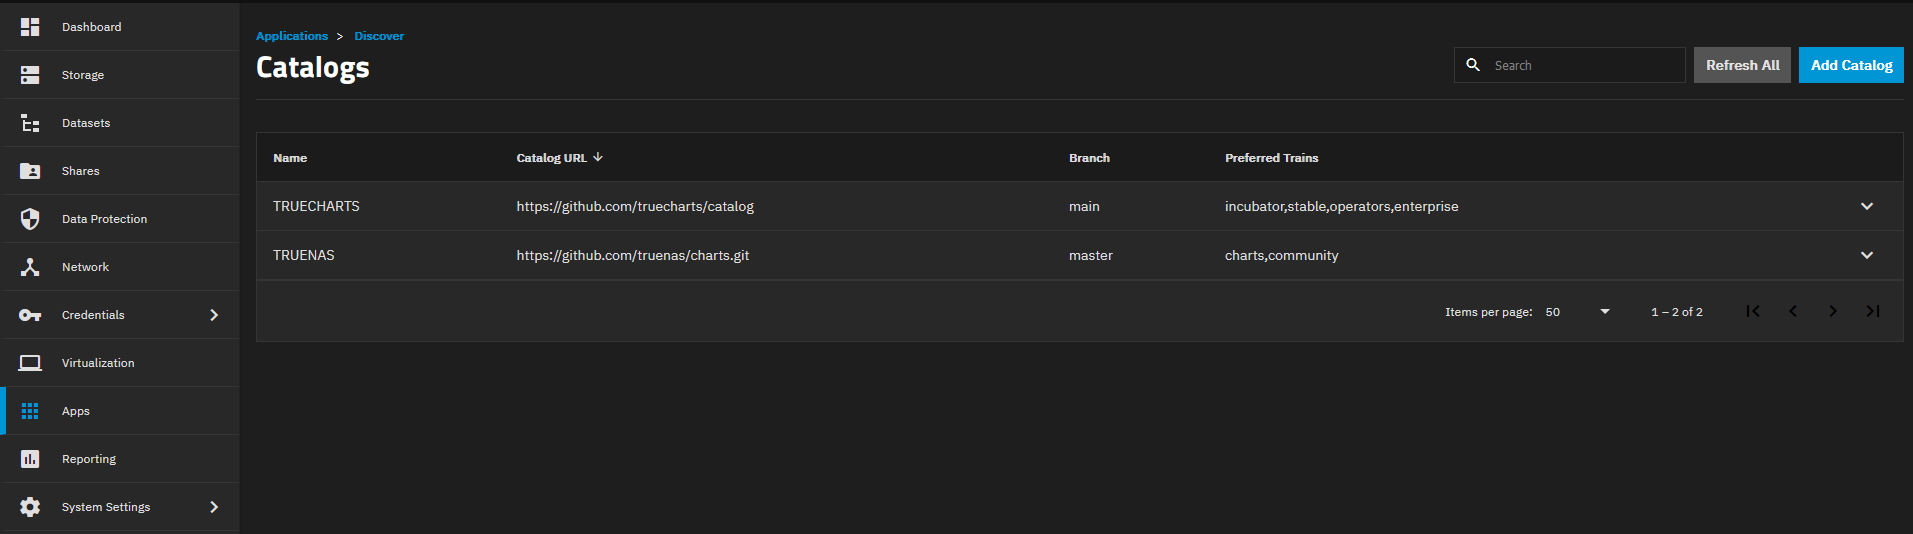
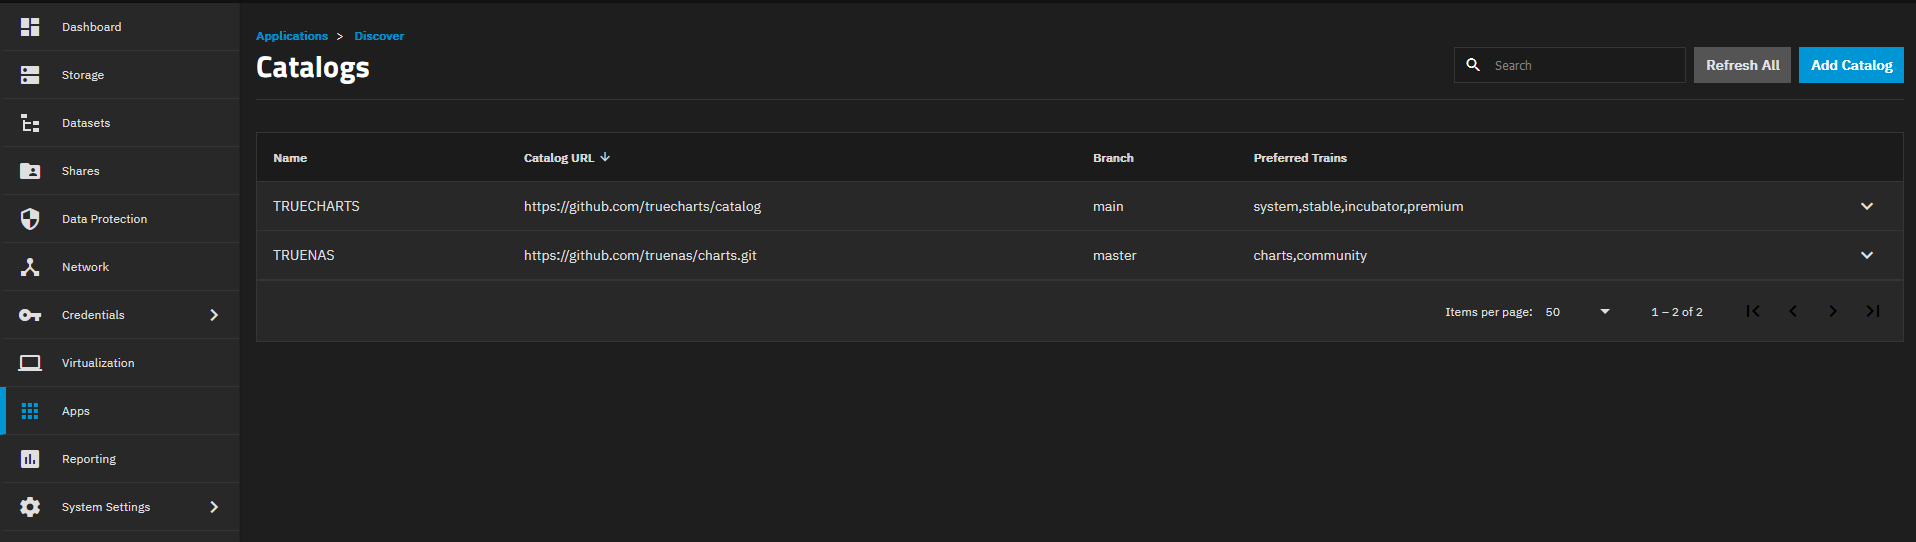
Update Docs (#530)
* Minor fixes, adding platform-specific instructions

* Adding images to getting started, fixing links etc. and updating images with new Trains.

diff --git a/docs/manual/SCALE/guides/getting-started.md b/docs/manual/SCALE/guides/getting-started.md
@@ -8,13 +8,13 @@ Below you'll find recommended steps to go from a blank or fresh TrueNAS SCALE in
 
 ## Requirements
 
-- TrueCharts apps share computing resources with your system. Please review our [recommended system requirements](https://truecharts.org/manual/systemrequirements).
+- TrueCharts apps share computing resources with your system. Please review our [recommended system requirements](https://truecharts.org/manual/SCALE/systemrequirements/).
 - Your apps dataset needs to be large enough to store the containers, configuration files, snapshots, and other persistent volume (PVC) data. You can always configure [additional storage](https://truecharts.org/manual/SCALE/guides/add-storage) using HDD pools (e.g. downloads folder) for specific apps later.
 - Make sure your SCALE installation has a working storage pool that you'd like to use for TrueCharts. [Read more](https://www.truenas.com/docs/scale/scaletutorials/storage/) in the SCALE tutorial.
 - Make sure you have a working Internet connection and can reach `https://github.com`, `https://truecharts.org`, and `https://tccr.io` from the host system.
 - Ensure your system time is up to date and you've chosen your preferred timezone in your [SCALE settings](https://www.truenas.com/docs/scale/scaleuireference/systemsettings/generalsettingsscreens/#localization). Apps you install will default to this timezone.
 - You are signed into your TrueNAS SCALE WebUI as `root` or as a user that can execute commands with `root` permissions.
-- Your apps pool must be configured before adding TrueCharts. When opening the Apps menu item on SCALE for the first time, you'll be prompted to [choose a storage pool](https://www.truenas.com/docs/scale/scaleuireference/apps/appsscreensscale/) for your Apps.
+- Your apps pool must be configured before adding TrueCharts. When opening the Apps menu item on SCALE for the first time, you'll be prompted to [choose a storage pool](https://www.truenas.com/docs/scale/scaleuireference/apps/) for your Apps.
 
 :::info Quick start guides
 
@@ -25,22 +25,39 @@ Below are the tl;dr versions of the full setup for certain use cases, scroll dow
 ## Minimal Getting Started Setup with SCALE
 
 - Add catalog with the following trains: `stable`, `premium`, `system` -> [Adding TrueCharts](https://truecharts.org/manual/SCALE/guides/getting-started/#adding-truecharts)
-- Install the following system from the `system` train with default settings: `cloudnative-pg`, `prometheus-operator`, `cert-manager`
+- Install the following apps from the `system` train with default settings: `cloudnative-pg`, `prometheus-operator`, `cert-manager`
 
 ## Adding TrueCharts
 
 To add TrueCharts to your SCALE installation:
 
 1.  Go to **Apps** page from the top level SCALE menu
+
+![Apps](img/Apps.png)
+
 2.  Click **Discover Apps** button on the Apps page
+
+![Discover Apps](img/Apps2.png)
+
 3.  Click **Manage Catalogs** link on the Discover Apps page
+
+![Manage Catalogs](img/Apps3.png)
+
 4.  Click **Add Catalog**
+
+![Add Catalog](img/Apps4.png)
+
 5.  After reading the iXsystems notice, click **Continue** and enter the required information:
     Name: `truecharts`
     Repository: `https://github.com/truecharts/catalog`
     Preferred Trains: `premium`,`stable` and `system` (type each one manually)
     Branch: `main`
+
+![Catalog Info](img/Apps5.png)
+
 6.  Click **Save** and allow SCALE to refresh its catalog with TrueCharts (this may take a few minutes)
+
+Note: If you're having issues adding the Truecharts catalog to SCALE, you may need to check the "Force Create" button. This can sometimes occur on systems with slow internet connections or insufficient processing power.
 
 :::info Introduction to TrueNAS SCALE Guide
 
@@ -86,21 +103,21 @@ TrueCharts has multiple "trains", or branches of apps which you can choose to in
 
 [See here](https://truecharts.org/charts/description_list) for a list of all apps available for each TrueCharts trains.
 
-## Heavyscript
+## HeavyScript
 
-Once you've added the TrueCharts catalog, we also recommend installing [Heavyscript](https://github.com/Heavybullets8/heavy_script#how-to-install) and configuring it to run nightly with a [cron job](https://github.com/Heavybullets8/heavy_script#how-to-create-a-cron-job). It's a bash script for managing Truenas SCALE applications, automatically update applications, backup applications datasets, open a shell for containers, and many other features. Please visit the [Heavyscript GitHub Page](https://github.com/Heavybullets8/heavy_script) for more info.
+Once you've added the TrueCharts catalog, we also recommend installing [HeavyScript](https://github.com/Heavybullets8/heavy_script#how-to-install) and configuring it to run nightly with a [cron job](https://github.com/Heavybullets8/heavy_script#how-to-create-a-cron-job). HeavyScript is a bash script for managing TrueNAS SCALE applications, automatically updating those applications, backing up applications datasets, opening a shell for containers, and many other features. Please visit the [HeavyScript GitHub Page](https://github.com/Heavybullets8/heavy_script) for more info.
 
 ## MetalLB installation and disabling integrated LoadBalancer
 
 ![metallb](img/icons/metallb.png)
 
-This step may be optional but is recommended for advanced users and/or those who which to assign specific IPs to their SCALE applications. We have a full guide explaining the setups on the [MetalLB-Config Setup Guide](https://truecharts.org/charts/premium/metallb-config/setup-guide) page on how to setup MetalLB and disable the integrated Loadbalancer. Please refer to that page for more info
+This step may be optional but is recommended for advanced users and/or those who which to assign specific IPs to their SCALE applications. We have a full guide explaining the setups on the [MetalLB-Config Setup Guide](https://truecharts.org/charts/premium/metallb-config/setup-guide) page on how to setup MetalLB and disable the integrated Loadbalancer. Please refer to that page for more info.
 
 ## CNPG/Prometheus system installation
 
 ![CNPG](img/icons/cnpg.png) ![Prometheus](img/icons/prometheus-operator.png)
 
-Many of our popular apps for TrueNAS SCALE use CloudNativePG or CNPG for short and will require the `Cloudnative-PG Operator` and `Prometheus Operator` to be installed **PRIOR** to installing an app using CNPG. That's why if you are unsure if you're using any apps with CNPG we advise users to install the `cloudnative-pg`/`prometheus-operator` system first before attempting to install apps. If you are migrating from a different CNPG operator, please see the [CNPG Migration Guide](https://truecharts.org/manual/SCALE/guides/cnpg-migration-guide) for steps on installing the `cloudnative-pg` operator and migrating. As well, see this [FAQ entry](https://truecharts.org/manual/FAQ#system) on removing the old built-in system
+Many of our popular apps for TrueNAS SCALE use CloudNativePG or CNPG for short and will require the `Cloudnative-PG Operator` and `Prometheus Operator` to be installed **PRIOR** to installing an app using CNPG. That's why if you are unsure if you're using any apps with CNPG we advise users to install the `cloudnative-pg`/`prometheus-operator` system apps first before attempting to install any other apps. If you are migrating from a different CNPG operator, please see the [CNPG Migration Guide](https://truecharts.org/manual/SCALE/guides/cnpg-migration-guide) for steps on installing the `cloudnative-pg` operator and migrating. As well, see this [FAQ entry](https://truecharts.org/manual/FAQ#system) on removing the old built-in system
 
 For new users just starting out with TrueNAS SCALE, you may simply install `cloudnative-pg` and `prometheus-operator` from the TrueCharts Community Catalog before continuing.
 
@@ -116,7 +133,7 @@ An optional but extra function enabled by Traefik and supported by many Truechar
 
 ![Cert-Manager](img/icons/cert-manager.png)
 
-TrueCharts only supports the usage of `Cert-Manager` (both the operator portion and the main `clusterissuer`) for certificate management inside apps for TrueNAS SCALE. The usage of TrueNAS SCALE certificates through the GUI is `deprecated` and may cease to function in future updates. We highly recommend setting up `clusterissuer` using our [clusterissuer setup-guide](https://truecharts.org/charts/premium/clusterissuer/how-to) before adding `Ingress` to your applications.
+TrueCharts only supports the usage of `Cert-Manager` (both the operator portion and the main `clusterissuer`) for certificate management inside apps for TrueNAS SCALE. The usage of TrueNAS SCALE certificates through the GUI is deprecated and may cease to function in future updates. We highly recommend setting up `clusterissuer` using our [clusterissuer setup-guide](https://truecharts.org/charts/premium/clusterissuer/how-to) before adding `Ingress` to your applications.
 
 <script async src="https://pagead2.googlesyndication.com/pagead/js/adsbygoogle.js?client=ca-pub-9270569596814796"
      crossorigin="anonymous"></script>
@@ -141,7 +158,7 @@ Blocky is the optional, but preferred DNS solution for TrueCharts. It's a DNS pr
 
 ![Authelia](img/icons/authelia.png)
 
-Authelia is a Single Sign-On Multi-Factor portal for web apps, and is the `preferred` solution to secure your TrueCharts apps when exposing them using `Traefik` as your ingress solution. We have a detailed guide that goes through setting up `Authelia`, along with `LLDAP` as a backend for `Authelia` and setting up the `forwardAuth` section of `Traefik` to handle the redirections and securing your apps. Please refer to the [Authelia Setup-Guide](https://truecharts.org/charts/premium/authelia/Setup-Guide) for more info. It is not strictly required, however you are otherwise encouraged to set a very strong password in your previous steps.
+Authelia is a Single Sign-On Multi-Factor portal for web apps, and is the preferred solution to secure your TrueCharts apps when exposing them using `Traefik` as your ingress solution. We have a detailed guide that goes through setting up Authelia, along with LLDAP as a backend for Authelia and setting up the `forwardAuth` section of Traefik to handle the redirections and securing your apps. Please refer to the [Authelia Setup-Guide](https://truecharts.org/charts/premium/authelia/Setup-Guide) for more info. It is not strictly required, however you are otherwise encouraged to set a very strong password in your previous steps.
 
 ### Video Guide
 

diff --git a/news/2024-03-16-train-renames.md b/news/2024-03-16-train-renames.md
@@ -9,13 +9,21 @@ We're back with some thrilling announcements that promise to enhance your experi
 ## Train Name Refresh: Introducing Premium and System Trains
 
 First off, we're thrilled to introduce our revamped train names: Premium Train and System Train. Say goodbye to the old names; these new labels better align with the quality and breadth of resources you'll find within.
-You'll find both an automated script *and* a one-by-one version to deal with this name change for you, at the bottom of this article
+You'll find both an automated script *and* a one-by-one version to deal with this name change for you, for both SCALE and Helm platforms, at the [bottom](https://truecharts.org/news#note-automated-migration-script-for-train-name-changes) of this article.
+
+### Enterprise out, Premium in
+
+This change reflects the fact that this train no longer specifically targets enterprise customers, but in general stands for higher-quality charts.
+
+### Hello, Operator? No, this is System
+
+This name change reflects this train no longer just containing operators, but now also includes additional important system charts.
 
 
 ## Meet Our New Team Appointments
 
-1. **@bitpush Assumes Role of Docs Maintainer:**
-   Join us in welcoming @bitpush as our new Docs Maintainer, succeeding @JagrBombs (Steven). With his expertise and dedication, we're confident our documentation will remain top-notch.
+1. **@bitpushr Assumes Role of Docs Maintainer:**
+   Join us in welcoming @bitpushr as our new Docs Maintainer, succeeding @JagrBombs (Steven). With their expertise and dedication, we're confident our documentation will remain top-notch.
 
 2. **@kofeh Takes Charge as Support Coordinator:**
    Say hello to @kofeh, our new Support Coordinator, succeeding @Xstar97TheNoob. With his stellar communication skills, he's ready to ensure you receive the assistance you need.
@@ -26,13 +34,13 @@ You'll find both an automated script *and* a one-by-one version to deal with thi
 ## Experimental Support for TrueNAS SCALE 24.04 DragonFish
 
 In a bold move, we've added initial prototype support for TrueNAS SCALE 24.04 DragonFish. However, it's crucial to note that this support is still highly experimental. As such, we do not offer staff support or guarantee data integrity for the BETA or TC versions of TrueNAS SCALE 24.04 DragonFish.
-You can read more on the steps required for running TrueNAS SCALE 24.04 Dragonfish here: https://truecharts.org/manual/SCALE/guides/dragonfish-storage
+You can read more on the steps required for running TrueNAS SCALE 24.04 Dragonfish [here](https://truecharts.org/manual/SCALE/guides/dragonfish-storage).
 
 ## Our Successful Bounty Program
 
 We're thrilled to share that our new bounty program has been incredibly successful! This initiative allows contributors to earn rewards for their valuable contributions to our project. If you'd like to learn more or get involved, check out our bounty program on Open Collective: [TrueCharts Bounties](https://opencollective.com/truecharts-bounties).
 
-**A Note on Donations
+**A Note on Donations**
 
 While our bounty program has seen fantastic results, it's important to note that bounties do not replace donations. Our project relies on the continued support of our loyal donors to thrive. If you'd like to contribute to our cause, consider making a donation via our Open Collective page: [Donate to TrueCharts](https://opencollective.com/truecharts).
 
@@ -45,9 +53,9 @@ Thank you for being part of the TrueCharts community.
 ## Note: Automated Migration Script for train name changes
 
 To ensure a seamless transition to the new train names, we've developed a script that automates the process across all relevant namespaces. Here's the code!
-Please be aware we do not give guarantees and this script may need adapting to your environment and/or additional permissions
+Please be aware we do not give guarantees and this script may need adapting to your environment and/or additional permissions.
 
-### Automated
+### Helm Platform - Automated Migration Script
 
 *save as nameupdate.sh and run `chmod +x nameupdate.sh` before running it*
 
@@ -71,9 +79,33 @@ done
 
 ```
 
-### Manual
+### SCALE Platform - Automated Migration Script
 
-*Replace `blocky` with the app-name in question and `premium` with the new train-name*
+*save as nameupdate.sh and run `chmod +x nameupdate.sh` before running it*
+
+```bash
+#!/bin/bash
+
+# Loop through all namespaces prefixed by "ix-"
+for ns in $(k3s kubectl get ns --no-headers | grep "^ix-" | awk '{print $1}' ORS=' '); do
+    # Check if the namespace has "catalog_train" label set to "enterprise" or "operators"
+    catalog_train_label=$(k3s kubectl get namespace "$ns" -o jsonpath='{.metadata.labels.catalog_train}')
+    if [[ "$catalog_train_label" == "enterprise" ]]; then
+        # Patch the namespace to change the "catalog_train" label to "premium"
+        k3s kubectl patch namespace "$ns" -p '{"metadata":{"labels":{"catalog_train":"premium"}}}'
+        echo "Namespace $ns updated from enterprise to premium."
+    elif [[ "$catalog_train_label" == "operators" ]]; then
+        # Patch the namespace to change the "catalog_train" label to "system"
+        k3s kubectl patch namespace "$ns" -p '{"metadata":{"labels":{"catalog_train":"system"}}}'
+        echo "Namespace $ns updated from operators to system."
+    fi
+done
+
+```
+
+### Manual Migration Script
+
+*Use this script to manually migrate your existing SCALE apps to the new trains. Replace `blocky` with the app name in question and `premium` with the new train-name*.
 
 ```bash
 k3s kubectl patch ns ix-blocky -p '{"metadata":{"labels":{"catalog_train":"premium"}}}'
